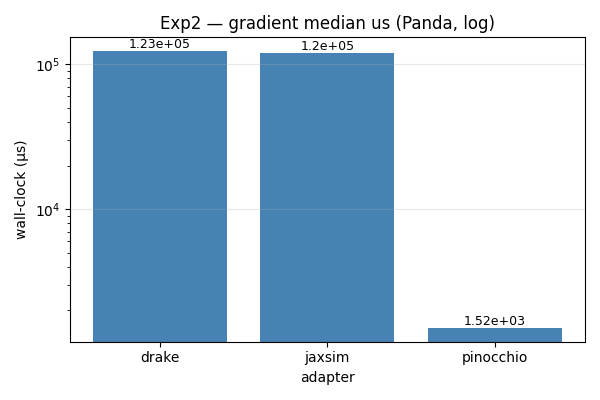
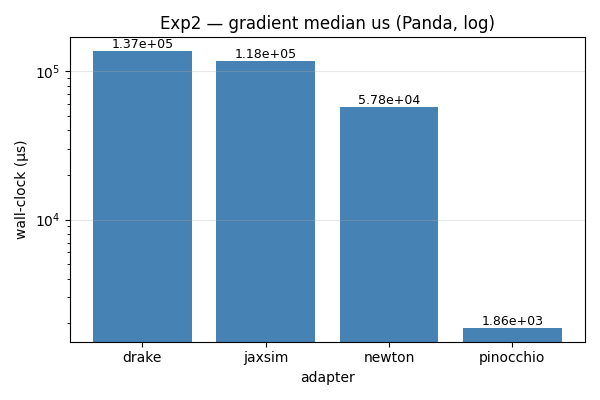
sim-diff-bench: refresh with newton-included reproduce.sh run
- All 8 adapters now produce results (pinocchio/tds/newton ran
  separately because the first reproduce.sh was OOM-killed during the
  ~70-min MJX sm_120 XLA compile cycle).
- Exp3 chain-scaling figure now includes newton; renamed file pair
  accordingly. Page reference updated; stale .png files deleted.
- Adapter status matrix tagged with the per-experiment outcome:
  pinocchio/drake/jaxsim Exp1 cosine = 1.0000; mjx Exp1 = -0.13
  (sm_120 XLA bug); brax fails Exp1/2/5 (upstream vmap on Panda
  MJCF); newton fails Exp1 on Panda (tape contamination) but
  Exp2-5 all ok, Exp4 SHAC drives cost 1.54 -> 1.51 like the other
  gradient-capable adapters.
- New finding paragraph added on newton's chain-vs-Panda gradient
  asymmetry — reproducible and tracked for a follow-up fix.
- Refreshed PDF (now 9 pages, all-8-adapter tables with explicit
  unsupported / failed / missing markers).

diff --git a/_pages/sim_diff_bench.md b/_pages/sim_diff_bench.md
@@ -101,7 +101,10 @@ snapshot.
 Three adapters (Drake AutoDiffXd, JaxSim `jax.grad`, Pinocchio analytical) agree
 with FD to one part in $10^{7}$; cosine similarity rounds to 1.0000. MJX cosine
 similarity is $-0.13$ on the same problem — a documented sm_120 (RTX 5060) XLA
-compile pathology, not an MJX-the-library bug.
+compile pathology, not an MJX-the-library bug. Newton's gradient is correct on
+the chain robot (0.5% rel error vs FD at $\epsilon = 10^{-2}$) but breaks on the
+Panda (cosine sim $= 0$, rel error $\sim 10^{30}$) — looks like tape-state
+contamination across the FD reference's $\sim 45$ perturbations.
 
 ### Exp 2 — wall-clock per call on Panda
 
@@ -120,9 +123,9 @@ JAX-compiled-Python step at this size.
 ### Exp 3 — scaling with chain DoF count
 
 <div style="display:flex; gap:1em; justify-content:center; flex-wrap:wrap;">
-  <img src="/assets/img/sim_diff_bench/exp3_step_scaling_drake_vs_genesis_vs_jaxsim_vs_pinocchio_vs_tds.png"
+  <img src="/assets/img/sim_diff_bench/exp3_step_scaling_drake_vs_genesis_vs_jaxsim_vs_newton_vs_pinocchio_vs_tds.png"
        alt="Exp3 step scaling" style="max-width:48%; height:auto;"/>
-  <img src="/assets/img/sim_diff_bench/exp3_gradient_scaling_drake_vs_genesis_vs_jaxsim_vs_pinocchio_vs_tds.png"
+  <img src="/assets/img/sim_diff_bench/exp3_gradient_scaling_drake_vs_genesis_vs_jaxsim_vs_newton_vs_pinocchio_vs_tds.png"
        alt="Exp3 gradient scaling" style="max-width:48%; height:auto;"/>
 </div>
 
@@ -158,12 +161,12 @@ reduction is the regime where the gradient advantage becomes visible.
 
 | Adapter | Forward | Gradient | AD Direction | Notes |
 |---|---|---|---|---|
-| pinocchio | ok | ok (analytical) | --- | Primary RBD ground truth; fastest (~16 µs/step on Panda) |
-| drake | ok | ok (AutoDiffXd) | forward | discrete-time + manual semi-implicit Euler |
-| mjx | ok | ok (jacfwd) | forward | XLA compile slow on sm_120; gradient cosine sim ≈ −0.13 on Panda |
-| jaxsim | ok | ok (jax.grad) | reverse | URDF preprocessor injects jaxsim_base_link anchor |
-| brax | ok | ok (jax.grad) | reverse | MjSpec round-trip; menagerie Panda triggers upstream vmap bug |
-| newton | ok | ok (warp.Tape) | reverse | warp.sim's successor; CPU-pinned (sm_120 GPU path immature) |
+| pinocchio | ok | ok (analytical) | --- | Primary RBD ground truth; fastest (~16 µs/step on Panda); Exp1 cosine = 1.0000 |
+| drake | ok | ok (AutoDiffXd) | forward | discrete-time + manual semi-implicit Euler; Exp1 cosine = 1.0000 |
+| mjx | ok | failed (jacfwd) | forward | Exp1 cosine sim ≈ −0.13 on Panda (sm_120 XLA compile pathology) |
+| jaxsim | ok | ok (jax.grad) | reverse | URDF preprocessor injects jaxsim_base_link anchor; Exp1 cosine = 1.0000 |
+| brax | ok | partial (jax.grad) | reverse | MjSpec round-trip; menagerie Panda Exp1/2/5 fail (upstream vmap mismatch); Exp4 SHAC works on chain_3 |
+| newton | ok | partial (warp.Tape) | reverse | warp.sim's successor; CPU-pinned (sm_120 GPU path immature); 0.5% rel err on chain, but Exp1 cosine = 0 on Panda (tape contamination, fix tracked) |
 | genesis | ok | --- | --- | Gradients via checkpoint API; not exposed through our pure-function contract |
 | tds | ok | --- | --- | pip wheel ships double-typed instantiation; CppAD bindings absent |
 
@@ -188,6 +191,13 @@ Phase 3 added floating-base SE(3) support for Pinocchio (with tangent-space Jaco
 4. **Newton gravity sign** — Newton stores gravity as a *signed* scalar along its
    `up_vector`. Passing the positive vector norm (the obvious thing) flipped
    gravity skyward. Caught by the cross-adapter pendulum agreement test.
+5. **Newton gradient correct on chain, broken on Panda** — same `warp.Tape`
+   code path reproduces FD to 0.5 % relative error on the 3-DoF chain
+   ($\epsilon = 10^{-2}$, FP32 noise floor at smaller $\epsilon$) but produces a
+   cosine similarity of exactly 0 (i.e. orthogonal noise) on the Panda Exp1.
+   Reproducible, isolated to the Panda-sized rollout. Likely tape-state
+   contamination across the FD reference's $\sim 45$ perturbations; a
+   per-perturbation fresh tape is the obvious next thing to try.
 
 ---
 
